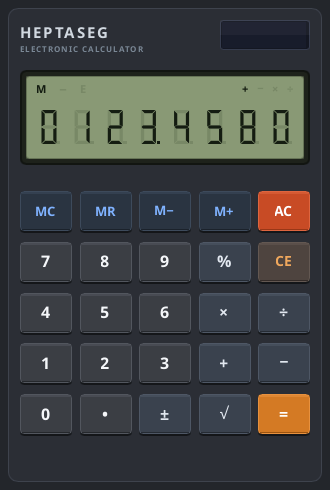
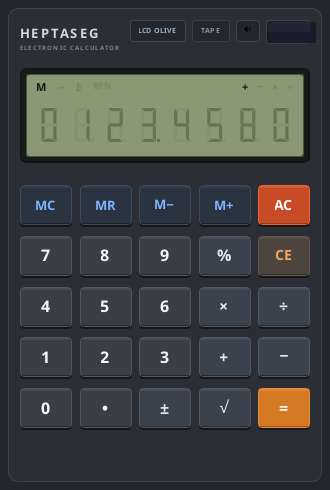
docs: bump version to 0.2.0 and update documentation for paper tape, themes, audio, and RPN

diff --git a/README.md b/README.md
@@ -1,8 +1,8 @@
 # Heptaseg 📟
 
 [![CI](https://github.com/vikman90/heptaseg/actions/workflows/ci.yml/badge.svg)](https://github.com/vikman90/heptaseg/actions/workflows/ci.yml)
+[![Release](https://img.shields.io/github/v/release/vikman90/heptaseg?color=blue)](https://github.com/vikman90/heptaseg/releases)
 [![License: MIT](https://img.shields.io/badge/License-MIT-yellow.svg)](https://opensource.org/licenses/MIT)
-
 [![Language: Rust](https://img.shields.io/badge/Language-Rust%202021-orange.svg)](https://www.rust-lang.org/)
 [![GUI: Slint](https://img.shields.io/badge/GUI-Slint%201.17-blue.svg)](https://slint.dev/)
 
@@ -12,30 +12,35 @@
 
 **Heptaseg** (*hepta* [seven] + *seg* [segments]) is a vintage 8-digit pocket calculator application engineered in **Rust** and rendered with **Slint**. 
 
-It is designed as a study in **clean software architecture, deterministic Finite State Machines (FSM), and vector liquid crystal display (LCD) synthesis**. The core domain is 100% decoupled from the user interface, allowing the same state machine to power both the native graphical desktop app and a retro terminal CLI.
+It is designed as a study in **clean software architecture, deterministic Finite State Machines (FSM), and vector liquid crystal display (LCD) synthesis**. The core domain is 100% decoupled from the user interface, powering both a native desktop app with tactile audio feedback and an interactive terminal CLI.
 
 ---
 
 ## ✨ Features
 
-- **Authentic Retro LCD Display**:
-  - 8 right-aligned 7-segment digit cells with decimal points.
-  - Pixel-perfect orthogonal vector polygons with realistic inactive/ghost segment coloring under ambient contrast.
-  - Annunciator indicators: Memory Active (`M`), Negative Sign (`−`), Error/Overflow (`E`), and active pending operator (`+`, `−`, `×`, `÷`).
-- **Standard Pocket Calculator Model**:
-  - Immediate execution chaining (`2 + 3 × 4 = 20`).
-  - Repeat calculation on consecutive `=` keypresses (`5 + 3 = 8 = 11 = 14`).
-  - Operator replacement (`10 + × 2 = 20`).
-- **Comprehensive Arithmetic & Functions**:
-  - Four basic operations (`+`, `−`, `×`, `÷`).
-  - Unary functions: Square Root (`√`), Percentage (`%`), Sign Inversion (`±`).
-  - Dedicated 4-key memory bank: `M+`, `M−`, `MR`, `MC`.
-  - Clear entry (`CE`) and All Clear (`AC`).
-- **Dual Frontends (GUI & CLI)**:
-  - **Desktop GUI**: Native Slint application compiling to a single lightweight binary on **Linux**, **macOS**, and **Windows** (~15 MB RAM).
-  - **Terminal CLI**: Terminal interface rendering an ASCII 7-segment LCD directly in stdout.
+- **Authentic Retro LCD & Multi-Theme Display**:
+  - 8 right-aligned 7-segment digit cells with decimal points and ambient ghost segments.
+  - **4 Vintage Display Palettes**:
+    - **Classic LCD**: Retro olive green background with liquid crystal charcoal ink.
+    - **Quartz LCD**: Silver-grey quartz glass with deep carbon black ink.
+    - **VFD Cyan**: Glowing vacuum fluorescent display with radiant cyan-turquoise segments.
+    - **Ruby LED**: 1976 Sinclair Sovereign style deep ruby display with glowing red LED segments.
+  - Annunciator indicators: Memory Active (`M`), Negative Sign (`−`), Error/Overflow (`E`), RPN Mode (`RPN`), and pending operators (`+`, `−`, `×`, `÷`).
+- **Standard & HP-Style RPN Modes**:
+  - **Standard Pocket Calculator Model**: Immediate execution chaining (`2 + 3 × 4 = 20`) and repeat equals (`5 + 3 = 8 = 11 = 14`).
+  - **HP-Style 4-Register RPN Stack**: Classic 4-level operational stack ($X, Y, Z, T$) with stack drop and cascade evaluation (`3 Enter 4 + = 7`).
+- **🖨 Continuous Paper Tape History**:
+  - Slide-out retro thermal paper roll tracking all calculations and intermediate results in real time.
+- **🔊 Tactile Audio Synthesis**:
+  - In-memory synthesized mechanical keycap bottom-out click sound (zero external audio file dependencies, with instant mute toggle).
+- **Comprehensive Arithmetic & Memory**:
+  - Four basic operations (`+`, `−`, `×`, `÷`), Square Root (`√`), Percentage (`%`), Sign Inversion (`±`).
+  - 4-key dedicated memory bank (`M+`, `M−`, `MR`, `MC`).
+- **Dual Frontends (Desktop GUI & Terminal CLI)**:
+  - **Desktop GUI**: Native Slint binary compiling across **Linux**, **macOS**, and **Windows** (~15 MB RAM).
+  - **Terminal CLI**: Terminal interface with an ASCII 7-segment display (`cargo run --bin cli`).
 - **Formal Verification & Property-Based Testing**:
-  - Invariants validated over thousands of randomized keystroke sequences using `proptest`.
+  - 41 automated unit, integration, and fuzzing tests via `proptest`.
 
 ---
 
@@ -46,8 +51,12 @@ It is designed as a study in **clean software architecture, deterministic Finite
 | `0` – `9` | Digits `0`–`9` | Enter numerical digits |
 | `.` or `,` | Decimal Point `•` | Append decimal separator |
 | `+`, `-`, `*`, `/` | Operations `+`, `−`, `×`, `÷` | Set or chain binary operator |
-| `Enter` or `=` | Equals `=` | Evaluate calculation / repeat |
+| `Enter` or `=` | Equals `=` / `Enter` | Evaluate calculation or push RPN stack |
 | `%` | Percentage `%` | Compute percentage |
+| `t` / `T` | Paper Tape `[TAPE]` | Toggle continuous paper tape receipt drawer |
+| `m` / `M` | Theme `[THEME]` | Cycle display palette (Olive, Quartz, VFD, Ruby) |
+| `s` / `S` | Sound `[🔊 / 🔇]` | Toggle tactile key click audio feedback |
+| `r` / `R` | Mode `[RPN]` | Toggle between Standard and RPN stack modes |
 | `Escape` or `c` / `C` | All Clear `AC` | Reset state machine and display |
 | `Backspace` or `Delete` | Clear Entry `CE` | Clear currently typed number |
 
@@ -64,24 +73,34 @@ flowchart TD
         CLI["Terminal CLI\n(src/bin/cli.rs)"]
     end
 
+    subgraph AudioEngine ["Audio Synthesis"]
+        Sound["In-Memory PCM Synthesizer\n(src/audio.rs)"]
+    end
+
     subgraph ControllerLayer ["Application Layer"]
         Ctrl["Event Router & Dispatcher\n(src/main.rs)"]
     end
 
     subgraph CoreEngine ["Pure Rust Core (zero GUI dependencies)"]
         FSM["Finite State Machine\n(src/core/fsm.rs)"]
+        RPN["4-Register RPN Stack\n(src/core/rpn.rs)"]
         Engine["Arithmetic & Memory Engine\n(src/core/engine.rs)"]
+        History["Paper Tape History Log\n(src/core/history.rs)"]
         Reg["8-Digit LCD Register\n(src/core/register.rs)"]
         State["Calculator State Enum\n(src/core/state.rs)"]
     end
 
     GUI -->|Button / Key Event| Ctrl
     CLI -->|Terminal Command| Ctrl
+    Ctrl -->|Trigger Click| Sound
     Ctrl -->|Typed Key| FSM
     FSM --> Engine
+    FSM --> RPN
+    FSM --> History
     FSM --> Reg
     FSM --> State
     State -->|Display String & Flags| Ctrl
+    History -->|Tape Entries| Ctrl
     Ctrl -->|Reactive Render| GUI
     Ctrl -->|ASCII Frame| CLI
 ```
@@ -107,7 +126,7 @@ cargo run --bin cli
 
 ### Run Comprehensive Test Suite
 ```bash
-# Runs all 13 unit tests, 15 integration tests, and proptest fuzzing suites
+# Runs all 17 unit tests, 15 integration tests, 4 history tests, 4 RPN tests, and proptest fuzzing suites
 cargo test --all-targets
 ```
 
@@ -125,31 +144,38 @@ cargo fmt --check
 heptaseg/
 ├── .github/
 │   └── workflows/
-│       └── ci.yml           # Multi-platform CI (Linux, macOS, Windows)
-├── Cargo.toml               # Package configuration & Slint dependencies
+│       ├── ci.yml           # Multi-platform CI (Linux, macOS, Windows)
+│       └── release.yml      # Automated release binary packager
+├── Cargo.toml               # Package configuration & dependencies
 ├── build.rs                 # Slint template build compilation
 ├── LICENSE                  # MIT License
 ├── README.md                # Project documentation
 ├── ARCHITECTURE.md          # In-depth architectural specification
 ├── ui/
-│   ├── appwindow.slint      # Main calculator casing, header, and solar panel
+│   ├── appwindow.slint      # Main calculator casing, header, and controls
 │   ├── lcd_display.slint    # 8-digit LCD bezel, grid & annunciators
 │   ├── lcd_digit.slint      # Vector-rendered 7-segment + DP digit cell
-│   └── keypad.slint         # Tactile 3D beveled buttons and keypad grid
+│   ├── keypad.slint         # Tactile 3D beveled buttons and keypad grid
+│   └── paper_tape.slint     # Expandable receipt paper tape history drawer
 ├── src/
 │   ├── main.rs              # Desktop GUI entry point & Slint synchronization
 │   ├── lib.rs               # Library root re-exporting core modules
+│   ├── audio.rs             # In-memory PCM mechanical click sound synthesizer
 │   ├── bin/
 │   │   └── cli.rs           # Terminal CLI binary with ASCII 7-segment display
 │   └── core/
 │       ├── mod.rs           # Core module definitions
-│       ├── types.rs         # Domain types (Key, BinaryOp, UnaryOp, MemoryOp, Flags)
+│       ├── types.rs         # Domain types (Key, BinaryOp, UnaryOp, MemoryOp, Flags, Themes)
 │       ├── register.rs      # 8-digit numeric buffer & LCD formatting
 │       ├── engine.rs        # Arithmetic calculations & memory bank
+│       ├── history.rs       # Paper tape calculation history log
+│       ├── rpn.rs           # 4-level HP-style RPN stack engine
 │       ├── state.rs         # Calculator state enum definitions
 │       └── fsm.rs           # Pure Finite State Machine transition handler
 └── tests/
     ├── fsm_tests.rs         # Deterministic integration test suite
+    ├── history_tests.rs     # Paper tape history integration tests
+    ├── rpn_tests.rs         # HP-style RPN stack integration tests
     └── proptest_fsm.rs      # Property-based testing & fuzzing invariants
 ```
 

diff --git a/ARCHITECTURE.md b/ARCHITECTURE.md
@@ -10,27 +10,36 @@ Heptaseg strictly separates the **visual representation layer** from the **domai
 
 1. **Zero UI Dependencies in Core Logic**: The entire `src/core/` module is completely independent of Slint or any GUI library. It can be compiled in headless environments, embedded devices (`no_std` with minor adaptations), or tested in unit tests with zero graphical overhead.
 2. **Unidirectional Data Flow**:
-   - The user interacts with the UI (mouse clicks or physical keyboard strokes).
+   - The user interacts with the UI (mouse clicks, touch, or physical keyboard strokes).
    - The UI/Controller encodes the input into a strongly-typed `Key` event.
    - The `CalculatorFsm` processes the event and produces a deterministic state transition.
-   - The UI reads the updated state properties (`display_string`, `status_flags`) and repaints the screen.
+   - The UI reads the updated state properties (`display_string`, `status_flags`, `history`) and repaints the screen.
 
 ```mermaid
-graph LR
+flowchart TD
     subgraph UI ["Slint UI Layer"]
-        KB[Physical Keyboard] --> Controller
+        KB[Physical Keyboard] --> Controller[Application Controller]
         KP[Keypad Touch/Click] --> Controller
-        LCD[7-Segment LCD View]
+        LCD[7-Segment LCD Multi-Theme View]
+        Tape[Paper Tape History Drawer]
     end
 
-    subgraph Core ["Rust Core Domain"]
+    subgraph AudioEngine ["Audio Layer"]
+        Sound[In-Memory PCM Click Synthesizer]
+    end
+
+    subgraph Core ["Rust Core Domain (zero GUI dependencies)"]
         Controller -->|Key Event| FSM[Finite State Machine]
-        FSM -->|Arithmetic & Memory| Engine[Arithmetic Engine]
+        Controller -->|Trigger Sound| Sound
+        FSM -->|Standard / RPN| Engine[Arithmetic Engine]
+        FSM -->|Stack Manipulation| RPN[4-Level RPN Stack]
+        FSM -->|Append Operation| History[Paper Tape History Log]
         FSM -->|Formatting & Digits| Reg[LCD Register]
         FSM -->|State & Status Flags| Controller
     end
 
-    Controller -->|Sync Properties| LCD
+    Controller -->|Sync Display & Flags| LCD
+    Controller -->|Sync Tape Entries| Tape
 ```
 
 ---
@@ -38,7 +47,7 @@ graph LR
 ## 2. Design Patterns
 
 ### 2.1 State Pattern (Functional FSM)
-The calculator state is modeled as an algebraic data type (`enum CalculatorState`), making invalid states unrepresentable in the type system:
+The standard calculator state is modeled as an algebraic data type (`enum CalculatorState`), making invalid states unrepresentable in the type system:
 
 ```rust
 pub enum CalculatorState {
@@ -51,27 +60,35 @@ pub enum CalculatorState {
 }
 ```
 
-### 2.2 Command / Event Pattern
-All interactions enter the system through a unified `Key` enum:
-- `Key::Digit(u8)`: Input digits `0` through `9`.
-- `Key::DecimalPoint`: Input `.`.
-- `Key::BinaryOp(BinaryOp)`: Operations `+`, `−`, `×`, `÷`.
-- `Key::UnaryOp(UnaryOp)`: Immediate operations `√`, `%`, `±`.
-- `Key::MemoryOp(MemoryOp)`: Memory operations `M+`, `M−`, `MR`, `MC`.
-- `Key::Equals`: Execution `=`.
-- `Key::Clear`: All Clear (`AC`).
-- `Key::ClearEntry`: Clear Entry (`CE`).
+### 2.2 Dual Calculation Engine: Standard vs. RPN
+The calculator can operate in two distinct modes:
+1. **Standard Pocket Mode**: Immediate sequential execution (`2 + 3 × 4 = 20`) with repeat calculation on consecutive `=` presses.
+2. **HP-Style 4-Register RPN Stack**: Classical 4-level operational stack ($X, Y, Z, T$) with stack drop, roll-down, and binary operators consuming $Y$ and $X$.
 
-### 2.3 Domain Error Handling
-Instead of returning opaque unit types `()`, errors are formally typed as `CalculatorError`:
-- `DivisionByZero`: Division by `0`.
-- `NegativeSquareRoot`: Square root of a negative operand.
-- `Overflow`: Results exceeding the 8-digit LCD capacity ($\ge 10^8$ or $\le -10^8$).
-- `InvalidInput`: Malformed numeric strings.
+```rust
+pub struct RpnStack {
+    pub x: f64, // Bottom of stack (display register)
+    pub y: f64, // Second operand
+    pub z: f64, // Third operand
+    pub t: f64, // Top of stack
+}
+```
+
+### 2.3 Paper Tape Ring Buffer History Log
+Calculations and intermediate expressions are logged to a ring buffer (`HistoryLog`):
+- Records timestamp, operands, operator, and final result.
+- Provides receipt paper formatting (`format_paper_tape()`).
+- Automatically updates in both GUI and CLI frontends.
+
+### 2.4 In-Memory Tactile Audio Synthesis
+Key presses trigger a procedural in-memory mechanical click synthesizer (`src/audio.rs`):
+- Zero external audio assets or static `.wav` files required.
+- Generates 9ms damped PCM impulse waveforms ($1100\text{Hz} \to 280\text{Hz}$ bottom-out drop + exponential decay).
+- Non-blocking playback via `rodio` with mute toggle.
 
 ---
 
-## 3. Finite State Machine Transitions
+## 3. Finite State Machine Transitions (Standard Mode)
 
 | Current State | Event / Key | Next State | Action / Effect |
 | :--- | :--- | :--- | :--- |
@@ -100,24 +117,11 @@ Instead of returning opaque unit types `()`, errors are formally typed as `Calcu
 
 ---
 
-## 4. LCD Vector Rendering Strategy
+## 4. Retro Display Palette Specifications
 
-Instead of bundling or relying on external font files which may render inconsistently across platforms (Linux FreeType vs. Windows DirectWrite vs. macOS CoreText), **Heptaseg renders each 7-segment digit cell using declarative vector polygons**:
-
-```
-         ─ A ─
-       │       │
-       F       B
-       │       │
-         ─ G ─
-       │       │
-       E       C
-       │       │
-         ─ D ─    (• DP)
-```
-
-Each segment $S \in \{A, B, C, D, E, F, G, DP\}$ is evaluated dynamically:
-- **Active state**: Rendered in dark liquid-crystal charcoal (`#141c11`).
-- **Inactive/Ghost state**: Rendered in faint greenish-grey (`#788866`) against the vintage LCD background (`#899975`).
-
-This achieves the true visual effect of real physical LCD segments illuminated by ambient light.
+| Theme | Display Technology | Background | Active Segment | Inactive (Ghost) |
+| :--- | :--- | :--- | :--- | :--- |
+| **Classic LCD** | Vintage Olive Liquid Crystal | `#899975` | `#141c11` (Charcoal) | `#788866` (Ghost Olive) |
+| **Quartz LCD** | Silver-Grey Quartz Glass | `#9ea7a6` | `#0c1012` (Black) | `#87908f` (Ghost Grey) |
+| **VFD Cyan** | Vacuum Fluorescent Tube | `#081014` | `#00f5d4` (Radiant Cyan) | `#003832` (Dark Teal) |
+| **Ruby LED** | 1976 Sinclair Sovereign LED | `#180406` | `#ff1e2e` (Bright Red) | `#3d070b` (Ruby Ghost) |
